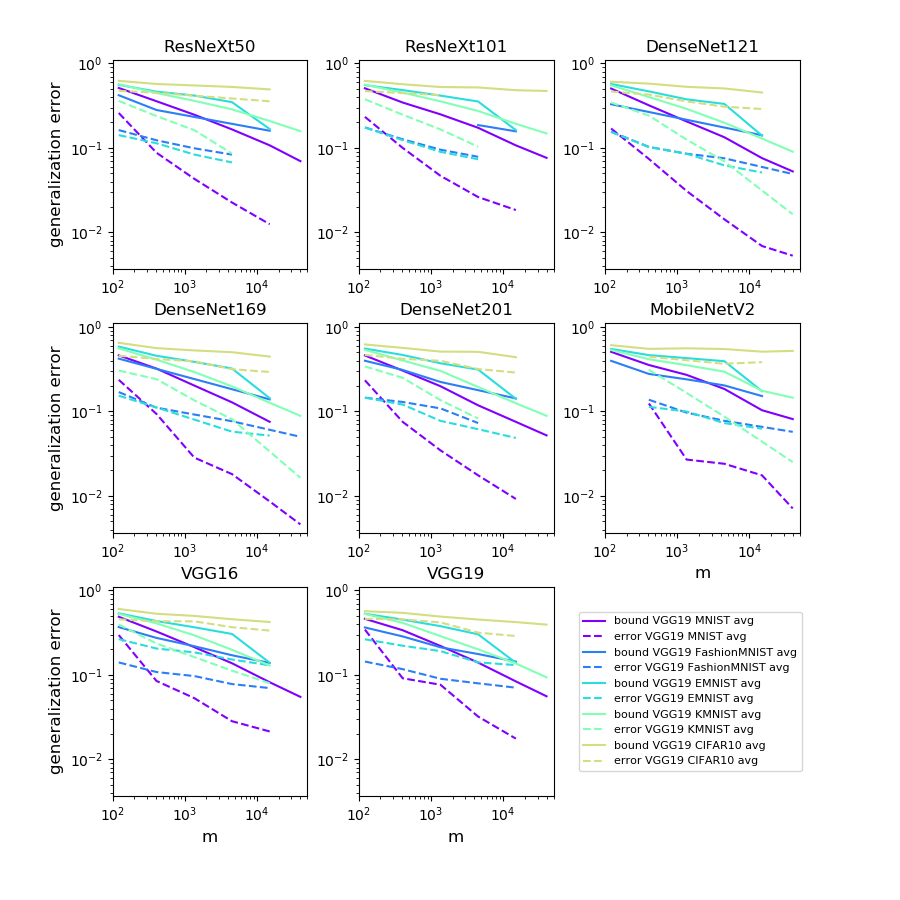
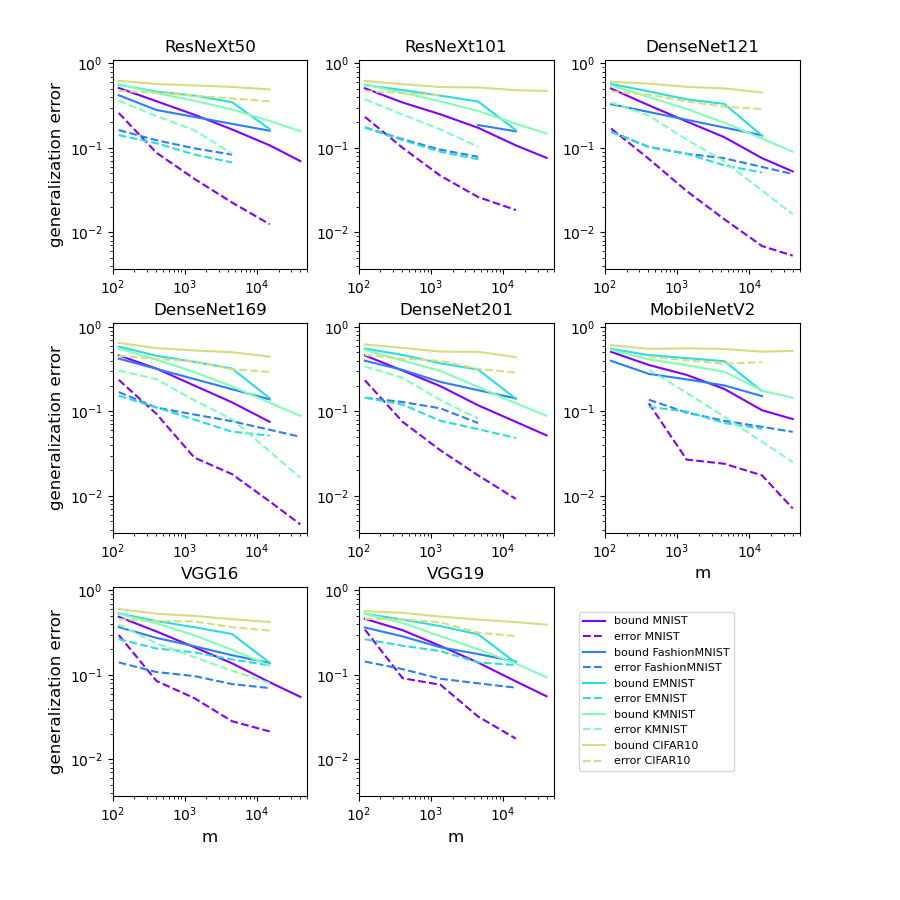
fixed some plots

diff --git a/analyze/analyze_msweep_new2.py b/analyze/analyze_msweep_new2.py
@@ -8,8 +8,8 @@ import scipy.stats
 
 #%%
 
-batch_size=256
-# batch_size=32
+# batch_size=256
+batch_size=32
 
 #%%
 
@@ -18,8 +18,7 @@ training_data = pd.read_csv("results/new_mother_of_all_msweeps_nn_training_resul
 # training_data[training_data["batch_size"]==32]["m"].tolist()
 training_data[(training_data["batch_size"] == 32) & (training_data["dataset"] == "KMNIST") & (training_data["network"] == "fc")][["m","train_acc","test_error"]]
 #removing the old batch 32 data which was done with a different learning rate or something
-training_data = training_data[~(training_data["batch_size"] == 32)]
-
+training_data = training_data[~(training_data["batch_size"] == 32) | ((training_data["network"]=="fc") & (training_data["dataset"]=="cifar"))]
 
 training_data2 = pd.read_csv("results/newer_mother_of_all_msweeps_nn_training_results.txt", sep="\t", comment="#")
 training_data2[training_data2["batch_size"] == 32][["m","dataset","train_acc","test_error","network"]]
@@ -195,6 +194,8 @@ net_nice_names["resnetv2_101"]="ResNetv2_101"
 net_nice_names["resnetv2_50"]="ResNetv2_50"
 
 len(training_data)
+
+# training_data[(training_data["network"]=="fc") & (training_data["dataset"]=="cifar")]
 
 #####################################################################################################################################
 # %% # PLOT FOR NETS SWEEP
@@ -570,18 +571,11 @@ for half in [0,1]:
                         if sweep=="nets":
                             color = cmap(ii/(len(things2)+3))
                         # color = cmap(i/(len(datasets)))
-                        if net=="fc":
-                            plotto.plot(bdata["m"], bdata["bound"], c=color, label="bound"+net_nice_names[net]+" "+dataset_nice_names[dataset])
-                            # plt.plot(bdata["m"], -bdata["logP"]/bdata["m"], c=color, label="PAC-Bayes bound "+net+" "+dataset+" "+pool)
-                            # plt.plot(bdata["m"], -bdata["logP"]/bdata["m"], c=color)
-                            plotto.plot(tdata["m"], tdata["test_error"], "--", c=color, label="error"+net_nice_names[net]+" "+dataset_nice_names[dataset])
-                            # plt.plot(tdata["m"], tdata["train_acc"], label="Training error "+net+" "+dataset)
-                        else:
-                            plotto.plot(bdata["m"], bdata["bound"], c=color, label="bound "+net_nice_names[net]+" "+dataset_nice_names[dataset]+" "+pool)
-                            # plt.plot(bdata["m"], -bdata["logP"]/bdata["m"], c=color, label="PAC-Bayes bound "+net+" "+dataset+" "+pool)
-                            # plt.plot(bdata["m"], -bdata["logP"]/bdata["m"], c=color)
-                            plotto.plot(tdata["m"], tdata["test_error"], "--", c=color, label="error "+net_nice_names[net]+" "+dataset_nice_names[dataset]+" "+pool)
-                            # plt.plot(tdata["m"], tdata["train_acc"], label="Training error "+net+" "+dataset+" "+pool)
+                        plotto.plot(bdata["m"], bdata["bound"], c=color, label="bound"+" "+dataset_nice_names[dataset])
+                        # plt.plot(bdata["m"], -bdata["logP"]/bdata["m"], c=color, label="PAC-Bayes bound "+net+" "+dataset+" "+pool)
+                        # plt.plot(bdata["m"], -bdata["logP"]/bdata["m"], c=color)
+                        plotto.plot(tdata["m"], tdata["test_error"], "--", c=color, label="error"+" "+dataset_nice_names[dataset])
+                        # plt.plot(tdata["m"], tdata["train_acc"], label="Training error "+net+" "+dataset)
                         ii+=1
                         plotto.set_yscale("log")
                         # if nya==15 or nya==14 or nya==13:
@@ -669,6 +663,7 @@ else:
 fig.delaxes(axx[1][1])
 # fig.delaxes(axx[0][2])
 # fig.delaxes(axx[1][2])
+net="fc"
 for nya,thing1 in enumerate(things1):
 # for thing1 in ["fc"]:
     plotto=axx[nya//2][nya%2]
@@ -737,18 +732,11 @@ for nya,thing1 in enumerate(things1):
                     if sweep=="nets":
                         color = cmap(ii/(len(things2)+3))
                     # color = cmap(i/(len(datasets)))
-                    if net=="fc":
-                        plotto.plot(bdata["m"], bdata["bound"], c=color, label="bound"+net_nice_names[net]+" "+dataset_nice_names[dataset])
-                        # plt.plot(bdata["m"], -bdata["logP"]/bdata["m"], c=color, label="PAC-Bayes bound "+net+" "+dataset+" "+pool)
-                        # plt.plot(bdata["m"], -bdata["logP"]/bdata["m"], c=color)
-                        plotto.plot(tdata["m"], tdata["test_error"], "--", c=color, label="error"+net_nice_names[net]+" "+dataset_nice_names[dataset])
-                        # plt.plot(tdata["m"], tdata["train_acc"], label="Training error "+net+" "+dataset)
-                    else:
-                        plotto.plot(bdata["m"], bdata["bound"], c=color, label="bound "+net_nice_names[net]+" "+dataset_nice_names[dataset]+" "+pool)
-                        # plt.plot(bdata["m"], -bdata["logP"]/bdata["m"], c=color, label="PAC-Bayes bound "+net+" "+dataset+" "+pool)
-                        # plt.plot(bdata["m"], -bdata["logP"]/bdata["m"], c=color)
-                        plotto.plot(tdata["m"], tdata["test_error"], "--", c=color, label="error "+net_nice_names[net]+" "+dataset_nice_names[dataset]+" "+pool)
-                        # plt.plot(tdata["m"], tdata["train_acc"], label="Training error "+net+" "+dataset+" "+pool)
+                    plotto.plot(bdata["m"], bdata["bound"], c=color, label="bound "+dataset_nice_names[dataset])
+                    # plt.plot(bdata["m"], -bdata["logP"]/bdata["m"], c=color, label="PAC-Bayes bound "+net+" "+dataset+" "+pool)
+                    # plt.plot(bdata["m"], -bdata["logP"]/bdata["m"], c=color)
+                    plotto.plot(tdata["m"], tdata["test_error"], "--", c=color, label="error"+" "+dataset_nice_names[dataset])
+                    # plt.plot(tdata["m"], tdata["train_acc"], label="Training error "+net+" "+dataset)
                     ii+=1
                     plotto.set_yscale("log")
                     # if nya==15 or nya==14 or nya==13:
